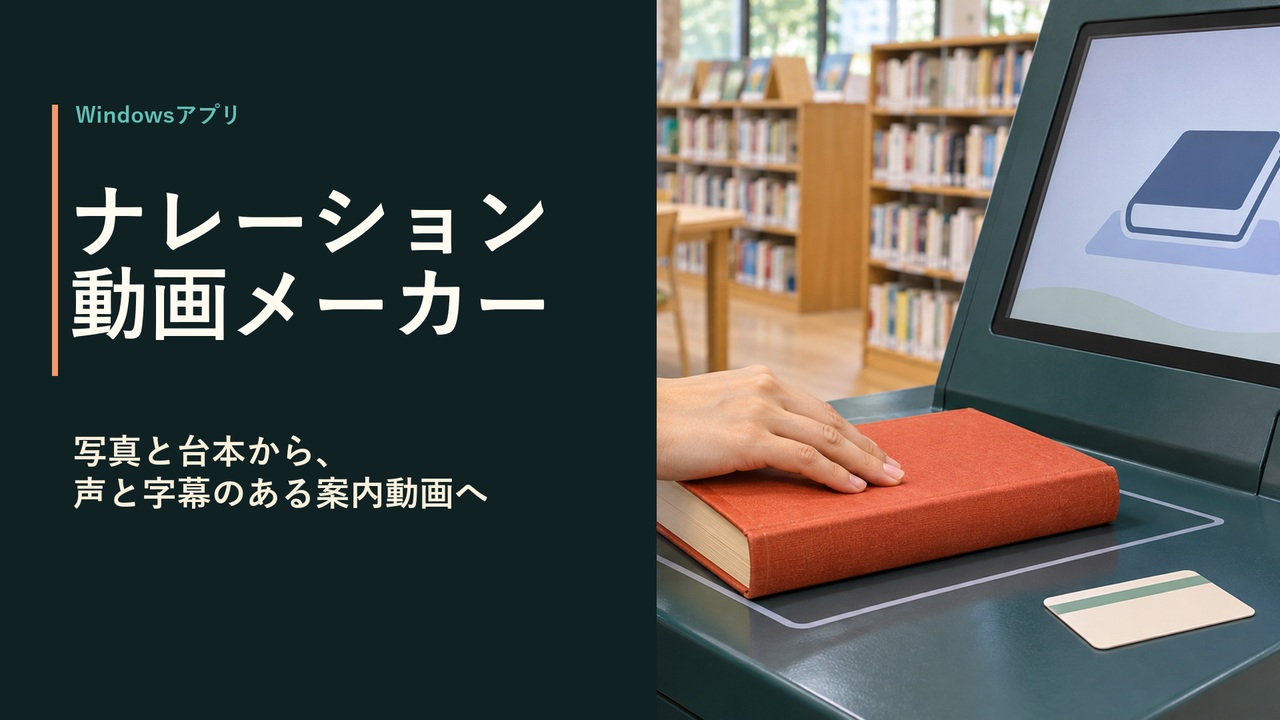
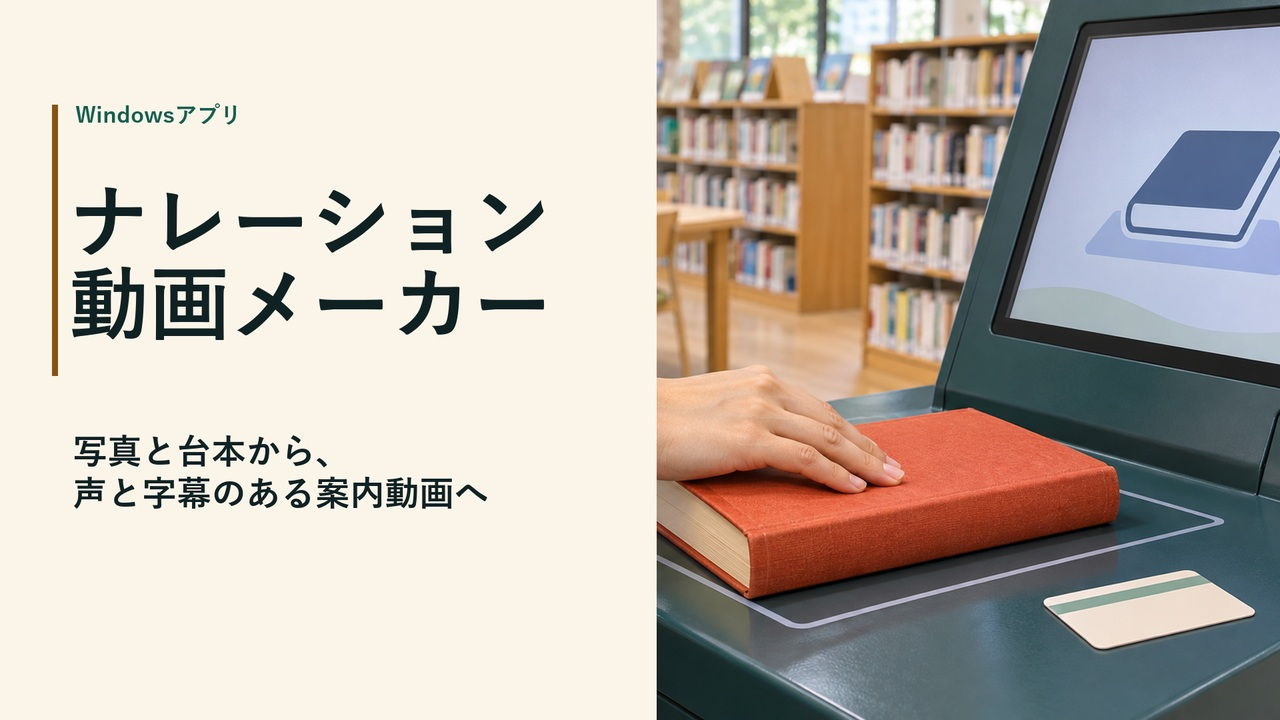
Link the visually consistent walkthrough

diff --git a/README.md b/README.md
@@ -31,7 +31,7 @@ Turn reference materials and scripts into 16:9 videos with Japanese narration, c
 
 Use **使い方マニュアル（PDF）** in the app header to read the bundled guide in a separate tab and save it from the PDF viewer. / アプリ上部の **使い方マニュアル（PDF）** から別タブで読めます。保存はPDFビューアーから行えます。ネット接続やAPIキーは不要です。
 
-[![Watch the full app walkthrough / 全体紹介動画を見る](docs/screenshots/walkthrough-library.jpg)](https://youtu.be/K2r0mIIGJjA)
+[![Watch the full app walkthrough / 全体紹介動画を見る](docs/screenshots/walkthrough-library.jpg)](https://youtu.be/Zg1mo0ilWJA)
 
 **Full app walkthrough / 全体紹介動画（2分18秒）**. Follow a library book-return example from photos and a short script to voice selection, caption and reading review, video playback, and MP4 export. Gemini 3.8 Flash TTS (Sulafat) narrates the walkthrough and example, with music by Google Lyria 3.5. / 図書館の返却案内を例に、写真と台本の準備から、声選び、字幕と読みの確認、完成MP4の再生・保存までを実画面で紹介します。解説と作例の音声は Gemini 3.8 Flash TTS の Sulafat、BGMは Google Lyria 3.5 です。
 
